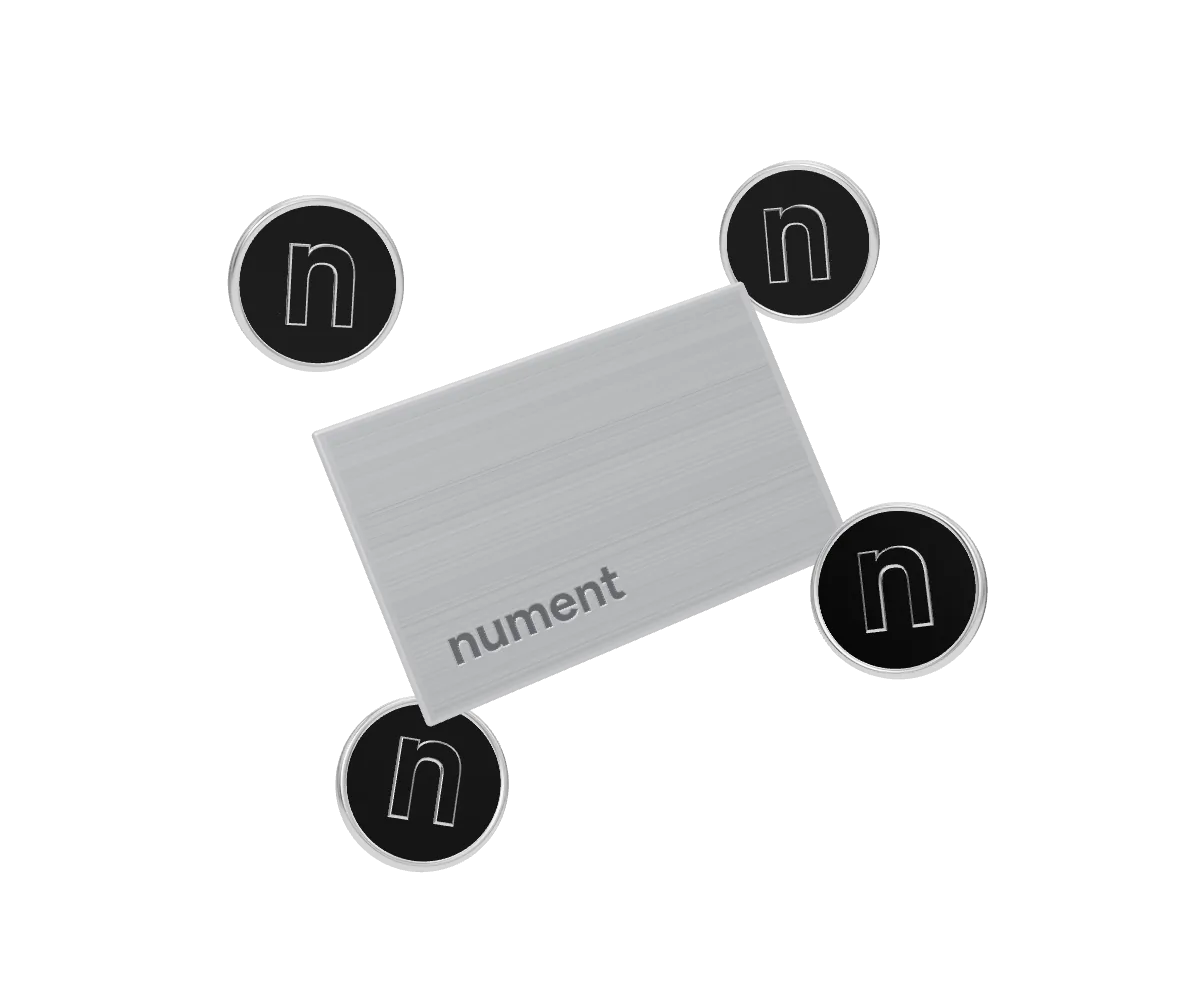
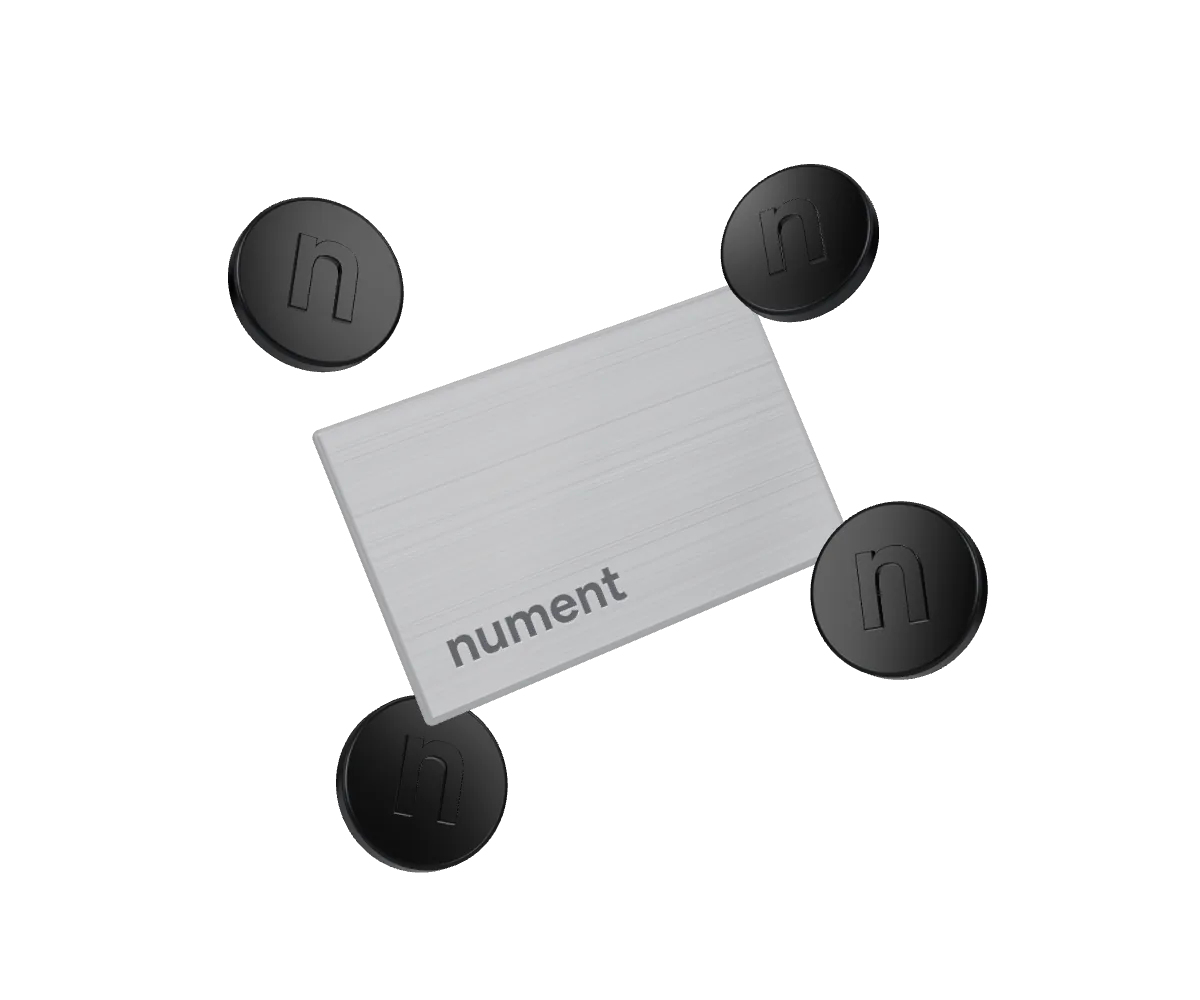
fix(web): sign-in coins read photo-real: thick glossy tokens, dark bevels
- Coins: thicker body, thin graphite-chrome bevelled rim, raised n with a
  small dark bevel (solid black letter, soft edge highlights), resting tilted
  20-35 degrees in alternating directions so the side band shows.
- Gloss: soft boxes on the side walls give each face a soft highlight sweep;
  room walls darkened so the sweep reads; no punctual light (its highlight
  turned whole coin faces white).
- Card: brighter brushed aluminium with a soft diagonal sheen and a thicker
  edge.
- Poster re-rendered from the new scene.

diff --git a/web/src/components/auth/coins-scene.tsx b/web/src/components/auth/coins-scene.tsx
@@ -1,8 +1,8 @@
 'use client'
 
 // The sign-in art: a brushed silver Nument card and four glossy black coins, floating in soft studio light.
-// Each coin is a black lacquer token with a thin polished chrome rim and a raised lowercase n on both faces
-// (real extruded geometry with a small bevel, not a texture). The card is light brushed aluminium with the
+// Each coin is a thick black lacquer token with a thin graphite-chrome bevel and a raised lowercase n on both faces
+// (real extruded geometry with a small dark bevel, not a texture). The card is light brushed aluminium with the
 // wordmark engraved in the corner.
 //
 // Framing: the camera's field of view is fitted to the panel on every resize, so the group always sits in
@@ -12,8 +12,9 @@
 // with object-fit: contain (auth-art.tsx).
 //
 // Motion: float, pointer tilt, hover spin (raycast), drag, spin-all on Continue and Sign in, and a short
-// intro rise. Every spin eases back to an upright rest pose facing the camera (coins within about 30
-// degrees), so a coin never rests edge-on or with its n upside down or mirrored. Reduced motion = still.
+// intro rise. Every spin eases back to an upright rest pose facing the camera (coins tilted 20-35
+// degrees so the side band shows), never edge-on and never with the n upside down or mirrored.
+// Reduced motion = still.
 //
 // It is loaded lazily after the page is up (src/components/auth/auth-art.tsx), so three.js is never part
 // of the sign-in page's first load. The poster stays on screen until the first frame is drawn and stays for
@@ -40,8 +41,9 @@ const HALF_H = HALF_W / POSTER_ASPECT
 
 const CARD_W = 3.4
 const CARD_H = 2.15
+const CARD_T = 0.12
 const COIN_R = (CARD_H * 0.55) / 2 // each coin is about 0.55x the card height across
-const COIN_T = 0.13
+const COIN_T = 0.2
 const TURN = Math.PI * 2
 
 type Item = {
@@ -173,16 +175,21 @@ function start(
     if (o instanceof THREE.Mesh && o.material instanceof THREE.MeshBasicMaterial && o.material.color.r > 1) {
       o.material.color.setScalar(Math.min(o.material.color.r * 0.12, 4))
     }
+    if (o instanceof THREE.PointLight) o.intensity *= 0.35 // darker walls, so the soft boxes read as highlights
   })
   const boxGeo = new THREE.BoxGeometry()
-  const boxMats = [3, 2].map((v) => new THREE.MeshBasicMaterial({ color: new THREE.Color().setScalar(v) }))
-  for (const [i, x, y, sx, sy] of [
-    [0, -6, 5, 5, 3.5],
-    [1, 8, -4, 3, 7],
+  const boxMats = [2.4, 2, 2.2].map((v) => new THREE.MeshBasicMaterial({ color: new THREE.Color().setScalar(v) }))
+  // [material, x, y, z, width, height, depth]: two behind the camera, and a tall strip on each side wall near
+  // the front, which a coin turned 20-35 degrees catches as a soft sweep across its face.
+  for (const [i, x, y, z, sx, sy, sz] of [
+    [0, -6, 5, 13.8, 5, 3.5, 0.1],
+    [1, 8, -4, 13.8, 3, 7, 0.1],
+    [2, 14.6, 4, 11, 0.1, 16, 3.5],
+    [2, -16, 4, 11, 0.1, 16, 3.5],
   ] as const) {
     const box = new THREE.Mesh(boxGeo, boxMats[i])
-    box.position.set(x, y, 13.8)
-    box.scale.set(sx, sy, 0.1)
+    box.position.set(x, y, z)
+    box.scale.set(sx, sy, sz)
     room.add(box)
   }
   const envMap = pmrem.fromScene(room, 0.03).texture
@@ -190,12 +197,11 @@ function start(
   const camera = new THREE.PerspectiveCamera(32, 1, 0.1, 100)
   camera.position.set(0, 0, CAMERA_Z)
 
-  // Soft studio light on top of the room reflections: a key from the upper left and a broad fill, so the
-  // silver card stays light at every tilt. No floor and no cast shadows.
-  const key = new THREE.DirectionalLight(0xffffff, 1.4)
-  key.position.set(-4, 6, 8)
-  const fill = new THREE.HemisphereLight(0xffffff, 0xd8d8dc, 1.1)
-  scene.add(key, fill)
+  // A broad, diffuse-only fill on top of the room reflections, so the silver card stays light at every tilt.
+  // No direct (punctual) light: on a flat glossy face its highlight covers the whole coin at once and turns
+  // it white. No floor and no cast shadows.
+  const fill = new THREE.HemisphereLight(0xffffff, 0xd8d8dc, 2.4)
+  scene.add(fill)
 
   // Canvas textures: brushed aluminium and the engraved wordmark (colour, and a height map for the cut).
   function tex(w: number, h: number, draw: (ctx: CanvasRenderingContext2D, w: number, h: number) => void, color = true) {
@@ -216,15 +222,24 @@ function start(
       ctx.fillStyle = light ? `rgba(255,255,255,${a})` : `rgba(0,0,0,${a * 0.8})`
       ctx.fillRect(0, y * h, w, 1)
     }
+    // a soft diagonal sheen, like a studio light sweeping across the brushed metal
+    const g = ctx.createLinearGradient(0, 0, w, h)
+    g.addColorStop(0, 'rgba(255,255,255,0)')
+    g.addColorStop(0.38, 'rgba(255,255,255,.22)')
+    g.addColorStop(0.5, 'rgba(255,255,255,0)')
+    g.addColorStop(0.8, 'rgba(0,0,0,.05)')
+    g.addColorStop(1, 'rgba(255,255,255,.08)')
+    ctx.fillStyle = g
+    ctx.fillRect(0, 0, w, h)
   }
   const wordmark = (ctx: CanvasRenderingContext2D, h: number) => {
     ctx.font = `700 118px ${family}`
     ctx.textBaseline = 'alphabetic'
     ctx.translate(78, h - 78)
   }
-  const cardBack = tex(1024, 640, (ctx, w, h) => brushed(ctx, w, h, '#cdd0d3'))
+  const cardBack = tex(1024, 640, (ctx, w, h) => brushed(ctx, w, h, '#e9ebee'))
   const cardFace = tex(1024, 640, (ctx, w, h) => {
-    brushed(ctx, w, h, '#cdd0d3')
+    brushed(ctx, w, h, '#e9ebee')
     wordmark(ctx, h)
     ctx.fillStyle = 'rgba(255,255,255,.7)' // the lit lower lip of the cut
     ctx.fillText('nument', 1.5, 2)
@@ -249,53 +264,49 @@ function start(
     map: cardFace,
     bumpMap: cardCut,
     bumpScale: 1.2,
-    metalness: 0.55,
+    metalness: 0.45,
     roughness: 0.36,
     clearcoat: 0.25,
     clearcoatRoughness: 0.3,
-    envMapIntensity: 0.8,
+    envMapIntensity: 1.1,
   })
   const silverBack = silver.clone()
   silverBack.map = cardBack
   silverBack.bumpMap = null
   const silverEdge = new THREE.MeshPhysicalMaterial({ color: 0xdcdde0, metalness: 0.7, roughness: 0.28 })
   const lacquer = new THREE.MeshPhysicalMaterial({
-    color: 0x08080a,
+    color: 0x060607,
     metalness: 0,
-    roughness: 0.2,
-    envMapIntensity: 0.4, // a soft sheen, never a white coin when it turns into the soft box
+    roughness: 0.14,
+    envMapIntensity: 0.6, // a soft sheen, never a white coin when it turns into the soft box
     clearcoat: 1,
     clearcoatRoughness: 0.05,
   })
-  const chrome = new THREE.MeshPhysicalMaterial({ color: 0xf4f4f6, metalness: 1, roughness: 0.1, side: THREE.DoubleSide })
-  const letterEdge = new THREE.MeshPhysicalMaterial({ color: 0xececee, metalness: 1, roughness: 0.1, clearcoat: 1, clearcoatRoughness: 0.05 })
+  // graphite chrome: dark, so the rim only catches a soft highlight where it faces a light
+  const chrome = new THREE.MeshPhysicalMaterial({ color: 0x55575c, metalness: 1, roughness: 0.22, clearcoat: 0.6, clearcoatRoughness: 0.15, side: THREE.DoubleSide })
+  const letterEdge = new THREE.MeshPhysicalMaterial({ color: 0x3c3d41, metalness: 1, roughness: 0.25, clearcoat: 1, clearcoatRoughness: 0.1 })
 
   // Coin geometry, axis along z (the front face looks at the camera at rest).
-  const ri = COIN_R - 0.065 // where the black face meets the chrome rim
-  const faceZ = COIN_T / 2 - 0.016
+  const ri = COIN_R - 0.035 // where the black face meets the thin bevelled rim
+  const faceZ = COIN_T / 2 - 0.008
   const faceGeo = new THREE.CircleGeometry(ri + 0.002, 96)
-  const rimProfile = [
-    [ri, faceZ],
-    [ri + 0.008, COIN_T / 2 - 0.002],
-    [ri + 0.03, COIN_T / 2],
-    [COIN_R - 0.022, COIN_T / 2 - 0.004],
-    [COIN_R - 0.006, COIN_T / 2 - 0.02],
-    [COIN_R, COIN_T / 2 - 0.042],
-    [COIN_R, -(COIN_T / 2 - 0.042)],
-    [COIN_R - 0.006, -(COIN_T / 2 - 0.02)],
-    [COIN_R - 0.022, -(COIN_T / 2 - 0.004)],
-    [ri + 0.03, -COIN_T / 2],
-    [ri + 0.008, -(COIN_T / 2 - 0.002)],
-    [ri, -faceZ],
-  ].map(([r, y]) => new THREE.Vector2(r, y))
-  const rimGeo = new THREE.LatheGeometry(rimProfile, 128)
+  // Rim: a small rounded bevel from the face down to a straight side band, then the same on the back.
+  const rimProfile: [number, number][] = []
+  for (let i = 0; i <= 8; i++) {
+    const a = (i / 8) * (Math.PI / 2) // quarter round from the face (a = 0) to the side band (a = pi/2)
+    rimProfile.push([ri + 0.035 * Math.sin(a), COIN_T / 2 - 0.008 - 0.03 * (1 - Math.cos(a))])
+  }
+  const lathe = [...rimProfile, ...rimProfile.map(([r, y]) => [r, -y] as [number, number]).reverse()].map(
+    ([r, y]) => new THREE.Vector2(r, y),
+  )
+  const rimGeo = new THREE.LatheGeometry(lathe, 128)
   rimGeo.rotateX(Math.PI / 2) // lathe axis y -> z
-  const bevel = 0.02
+  const bevel = 0.012
   const nGeo = new THREE.ExtrudeGeometry(letterN(COIN_R * 0.86), {
-    depth: 0.022,
+    depth: 0.04,
     bevelEnabled: true,
     bevelThickness: bevel,
-    bevelSize: 0.016,
+    bevelSize: 0.009,
     bevelSegments: 4,
     curveSegments: 24,
   })
@@ -345,23 +356,24 @@ function start(
   }
 
   // The silver card
-  const cardGeo = new RoundedBoxGeometry(CARD_W, CARD_H, 0.07, 6, 0.12)
-  const cardFaceGeo = new THREE.PlaneGeometry(CARD_W - 0.15, CARD_H - 0.13)
+  const cardGeo = new RoundedBoxGeometry(CARD_W, CARD_H, CARD_T, 6, 0.05)
+  const cardFaceGeo = new THREE.PlaneGeometry(CARD_W - 0.1, CARD_H - 0.1)
   const card = new THREE.Mesh(cardGeo, silverEdge)
   const face = new THREE.Mesh(cardFaceGeo, silver)
-  face.position.z = 0.0365
+  face.position.z = CARD_T / 2 + 0.0005
   const back = new THREE.Mesh(cardFaceGeo, silverBack)
-  back.position.z = -0.0365
+  back.position.z = -(CARD_T / 2 + 0.0005)
   back.rotation.y = Math.PI
   card.add(face, back)
   place(card, { pos: [-0.05, 0.05, 0], rot: [-0.16, 0.26, 0.4], amp: 0.08, speed: 0.6, coin: false })
 
-  // Four black coins around it: rest poses within about 30 degrees of facing the camera, small in-plane roll.
+  // Four black coins around it, tilted 20-35 degrees (alternating left and right, all facing slightly up so
+  // they catch the soft boxes rather than the dark floor), small in-plane roll.
   const spots: [number, number, number, number, number, number][] = [
-    [-1.9, 1.45, 0.55, 0.26, 0.38, -0.1],
-    [1.45, 1.88, -0.35, 0.3, -0.34, 0.12],
-    [1.98, -0.6, 0.65, -0.18, -0.42, 0.08],
-    [-1.2, -1.92, 0.45, -0.3, 0.3, -0.12],
+    [-1.9, 1.45, 0.55, -0.22, 0.5, -0.1],
+    [1.45, 1.88, -0.35, -0.3, -0.5, 0.12],
+    [1.98, -0.6, 0.65, -0.25, -0.52, 0.08],
+    [-1.2, -1.92, 0.45, -0.35, 0.45, -0.12],
   ]
   const coinNodes: THREE.Object3D[] = []
   for (const [x, y, z, rx, ry, rz] of spots) {
